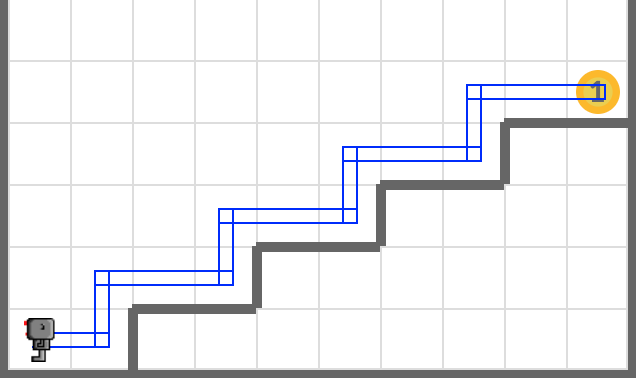
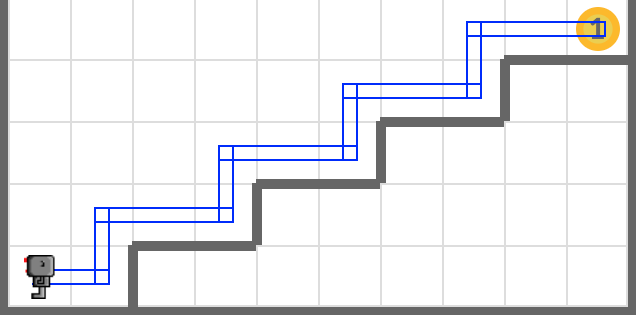
migrate lab 1

diff --git a/pypad-courses/cs1-1/docs/02-1-zigzag.md b/pypad-courses/cs1-1/docs/02-1-zigzag.md
@@ -4,11 +4,42 @@ Write a code that makes your robot in a zigzag pattern in the default 10×10 wor
 
 Create a default world, add a robot, and make the robot visit the entire world in a zigzag pattern exactly like in the example below.
 
+## Tip
+
+Write `from cs1robots import *` at the beginning of the code to use all functions related to robots.
+
+```python
+from cs1robots import *
+```
+
+Use `create_world()` function to create a default world.
+
+```python
+create_world()
+```
+
+Use `bot = Robot()` to create a robot named **bot**.
+
+```python
+bot = Robot()
+```
+
+Use robot's `move()` function to move robot forward and `turn_left()` function to turn robot left 90 degrees.
+
+```python
+bot.move()
+bot.turn_left()
+```
+
 ## Example
-![Move your robot](../assets/02-1-zigzag.png)
+
 <img src="../assets/02-1-zigzag.png" style="max-width:320px" />
 <em>Move your robot exactly like this</em>
 
 ## Exercise
 
 <iframe class="u-pad-embed" src="../pads/zigzag/exercise_embed/" frameborder="0"></iframe>
+
+## Solution
+
+<a class="c-button" href="../02-1-zigzag-solution">View Solution</a>

diff --git a/pypad-courses/cs1-1/docs/02-2-hurdles.md b/pypad-courses/cs1-1/docs/02-2-hurdles.md
@@ -1,0 +1,28 @@
+# Hurdles
+
+Load the world named **hurdles1.wld**, add a robot, and let your robot jump over the hurdles and pick up the beeper in the world. 
+
+## Tip
+
+Use `load_world('world_file_path')` function to load a custom world. You can click *Files* button at the bottom of this box to see files available in this exercise. 
+
+In this exercise, use **hurdles1.wld** under the **worlds** folder like this:
+
+```python
+load_world('worlds/hurdles1.wld')
+```
+
+<img src="../assets/02-2-hurdles-init.png" style="max-width:320px" />
+
+## Example
+
+<img src="../assets/02-2-hurdles.png" style="max-width:320px" />
+<em>Move your robot exactly like this</em>
+
+## Exercise
+
+<iframe class="u-pad-embed" src="../pads/hurdles/exercise_embed/" frameborder="0"></iframe>
+
+## Solution
+
+<a class="c-button" href="../02-2-hurdles-solution">View Solution</a>

diff --git a/pypad-courses/cs1-1/docs/02-3-newspaper.md b/pypad-courses/cs1-1/docs/02-3-newspaper.md
@@ -1,0 +1,32 @@
+# Newspaper Delivery
+
+Write a code that makes your robot delivers a beeper and return to its starting point. Load the world named **newspaper.wld** to do this.
+
+<img src="../assets/02-3-newspaper-init.png" style="max-width:320px" />
+
+## Tip
+
+Use `load_world('world_file_path')` function to load a custom world. 
+
+```python
+load_world('worlds/newspaper.wld')
+```
+
+Use `Robot(beeper=10)` to create a robot with 10 beepers.
+
+```python
+bot = Robot(beeper=10)
+```
+
+## Example
+
+<img src="../assets/02-3-newspaper.png" style="max-width:320px" />
+<em>Move your robot exactly like this</em>
+
+## Exercise
+
+<iframe class="u-pad-embed" src="../pads/newspaper/exercise_embed/" frameborder="0"></iframe>
+
+## Solution
+
+<a class="c-button" href="../02-3-newspaper-solution">View Solution</a>

diff --git a/pypad-courses/cs1-1/docs/02-4-harvest.md b/pypad-courses/cs1-1/docs/02-4-harvest.md
@@ -1,0 +1,26 @@
+# Harvest
+
+Load the world named **harvest1.wld**, and add a robot. Pick up all beepers in the world witih your robot.
+
+<img src="../assets/02-4-harvest-init.png" style="max-width:320px" />
+
+## Tip
+
+Use robot's `pick_beeper()` function to pick up beeper at the current position. Be aware that this function will cause error if there is no beeper at the position.
+
+```python
+bot.pick_beeper()
+```
+
+## Example
+
+<img src="../assets/02-4-harvest.png" style="max-width:320px" />
+<em>Pick up all beepers in the world</em>
+
+## Exercise
+
+<iframe class="u-pad-embed" src="../pads/harvest/exercise_embed/" frameborder="0"></iframe>
+
+## Solution
+
+<a class="c-button" href="../02-4-harvest-solution">View Solution</a>

diff --git a/pypad-courses/cs1-1/docs/02-5-harvest-again.md b/pypad-courses/cs1-1/docs/02-5-harvest-again.md
@@ -1,0 +1,20 @@
+# Harvest Again
+
+Load the world named **harvest2.wld**, and add a robot. Pick up all beepers in the world witih your robot again in this world.
+
+Try to move your robot as little as possible to pick up all beepers.
+
+<img src="../assets/02-5-harvest-again-init.png" style="max-width:320px" />
+
+## Example
+
+<img src="../assets/02-5-harvest-again.png" style="max-width:320px" />
+<em>Pick up all beepers in the world</em>
+
+## Exercise
+
+<iframe class="u-pad-embed" src="../pads/harvest-again/exercise_embed/" frameborder="0"></iframe>
+
+## Solution
+
+<a class="c-button" href="../02-5-harvest-again-solution">View Solution</a>

diff --git a/pypad-courses/cs1-1/docs/01-4-robots.md b/pypad-courses/cs1-1/docs/01-4-robots.md
@@ -45,7 +45,11 @@ Now let's solve an exercise problem with a robot.
 
 > A robot should climb the stairs to the front door, drop a newspaper there, and return to his starting point.
 
+<img src="../assets/02-3-newspaper-init.png" style="max-width:320px" />
 
+<img src="../assets/02-3-newspaper-checkpoint.png" style="max-width:320px" />
+
+<img src="../assets/02-3-newspaper.png" style="max-width:320px" />
 
 We can write a problem outline for this exercise. 
 

diff --git a/pypad-courses/cs1-1/docs/02-3-newspaper-solution.md b/pypad-courses/cs1-1/docs/02-3-newspaper-solution.md
@@ -1,0 +1,5 @@
+# Newspaper Delivery: Solution
+
+## Answer
+
+<iframe class="u-pad-embed" src="../pads/newspaper-solution/embed/" frameborder="0"></iframe>

diff --git a/pypad-courses/cs1-1/docs/02-5-harvest-again-solution.md b/pypad-courses/cs1-1/docs/02-5-harvest-again-solution.md
@@ -1,0 +1,5 @@
+# Harvest Again: Solution
+
+## Answer
+
+<iframe class="u-pad-embed" src="../pads/harvest-again-solution/embed/" frameborder="0"></iframe>

diff --git a/pypad-courses/cs1-1/docs/02-2-hurdles-solution.md b/pypad-courses/cs1-1/docs/02-2-hurdles-solution.md
@@ -1,0 +1,5 @@
+# Hurdles: Solution
+
+## Answer
+
+<iframe class="u-pad-embed" src="../pads/hurdles-solution/embed/" frameborder="0"></iframe>

diff --git a/pypad-courses/cs1-1/docs/02-4-harvest-solution.md b/pypad-courses/cs1-1/docs/02-4-harvest-solution.md
@@ -1,0 +1,5 @@
+# Harvest: Solution
+
+## Answer
+
+<iframe class="u-pad-embed" src="../pads/harvest-solution/embed/" frameborder="0"></iframe>

diff --git a/pypad-courses/cs1-1/docs/02-1-zigzag-solution.md b/pypad-courses/cs1-1/docs/02-1-zigzag-solution.md
@@ -1,0 +1,5 @@
+# Zigzag: Solution
+
+## Answer
+
+<iframe class="u-pad-embed" src="../pads/zigzag-solution/embed/" frameborder="0"></iframe>
